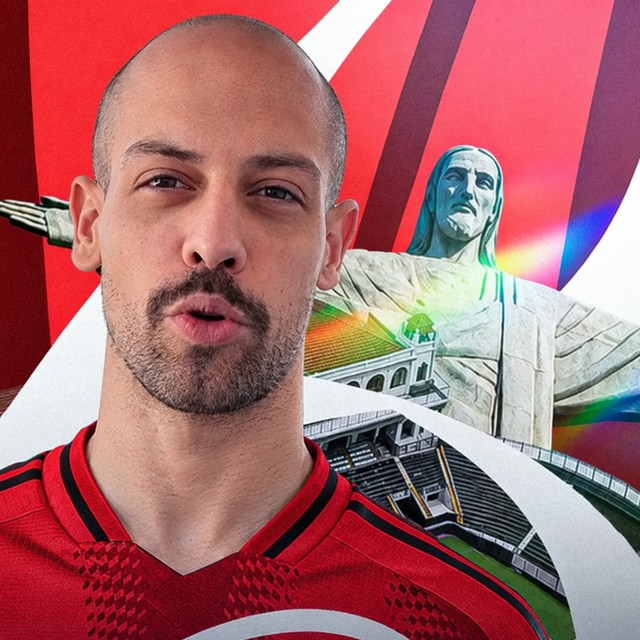
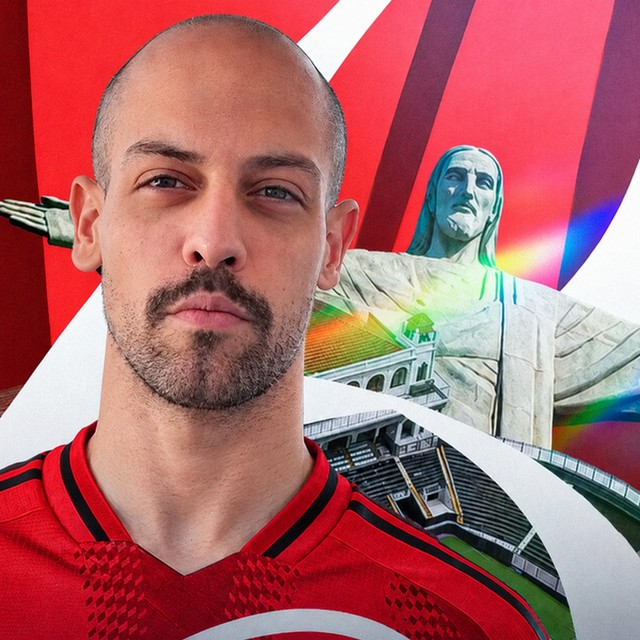
Atualiza a foto do Dimicontro no elenco.

diff --git a/data.js b/data.js
@@ -95,7 +95,7 @@ window.CLUB = {
     { tag: "Patrick11ns", name: "Coach", pos: "—", role: "Coach", rating: "", games: 0, goals: 0, assists: 0, number: 0, live: "https://kick.com/patrick11ns", photo: "assets/players/patrick.jpg" },
     { tag: "Beliene", name: "Meio", pos: "MEI", role: "", rating: "", games: 8, goals: 1, assists: 0, number: 21, live: "https://kick.com/Beliene_r", photo: "assets/players/beliene.jpg?v=5" },
     { tag: "2Tclipes", name: "Ataque", pos: "ATA", role: "", rating: "", games: 0, goals: 0, assists: 0, number: 13, live: "https://kick.com/2t-clipes", photo: "assets/players/2tclipes.jpg?v=2" },
-    { tag: "Dimicontro", name: "Elenco", pos: "MEI", role: "", rating: "", games: 0, goals: 0, assists: 0, number: 16, live: "https://kick.com/dimicontroo", photo: "assets/players/dimicontro.jpg?v=2" },
+    { tag: "Dimicontro", name: "Elenco", pos: "MEI", role: "", rating: "", games: 0, goals: 0, assists: 0, number: 16, live: "https://kick.com/dimicontroo", photo: "assets/players/dimicontro.jpg?v=3" },
     { tag: "wVini7", name: "Goleiro", pos: "GOL", role: "", rating: "", games: 0, goals: 0, assists: 0, number: 12, live: "", photo: "assets/players/vini-show.jpg" },
   ],
   formation: {

diff --git a/index.html b/index.html
@@ -289,7 +289,7 @@
     </span>
   </a>
 
-  <script src="data.js?v=98"></script>
+  <script src="data.js?v=99"></script>
   <script src="app.js?v=94"></script>
   <script src="lives.js?v=95"></script>
 </body>

diff --git a/lives.html b/lives.html
@@ -85,7 +85,7 @@
     </span>
   </a>
 
-  <script src="data.js?v=98"></script>
+  <script src="data.js?v=99"></script>
   <script src="lives.js?v=95"></script>
 </body>
 </html>
